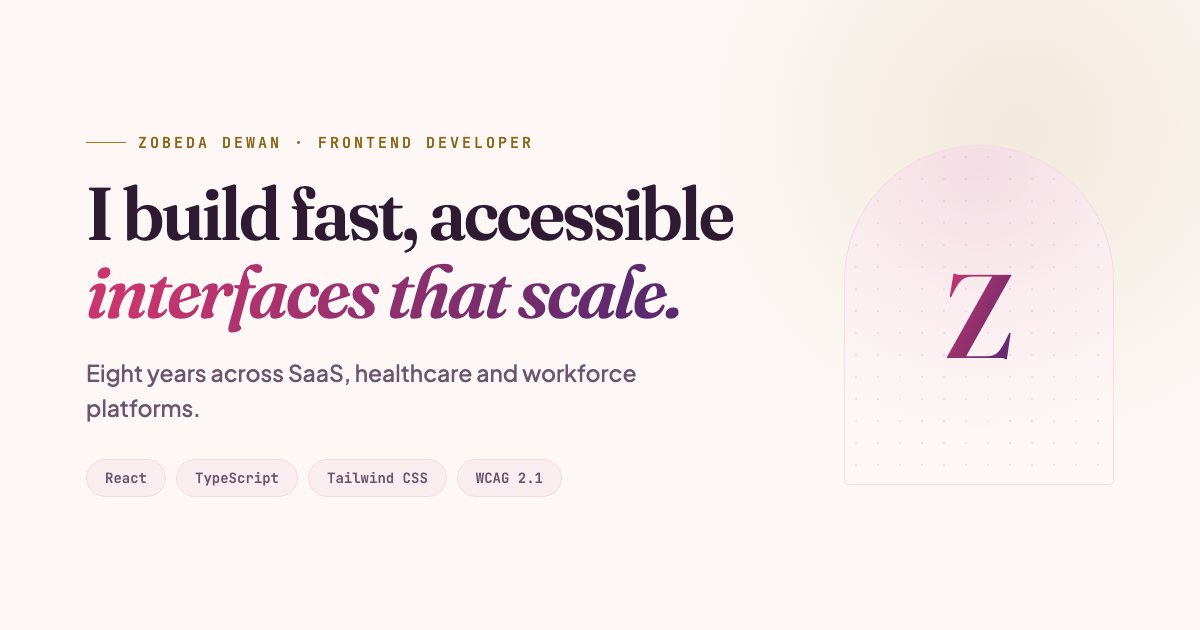
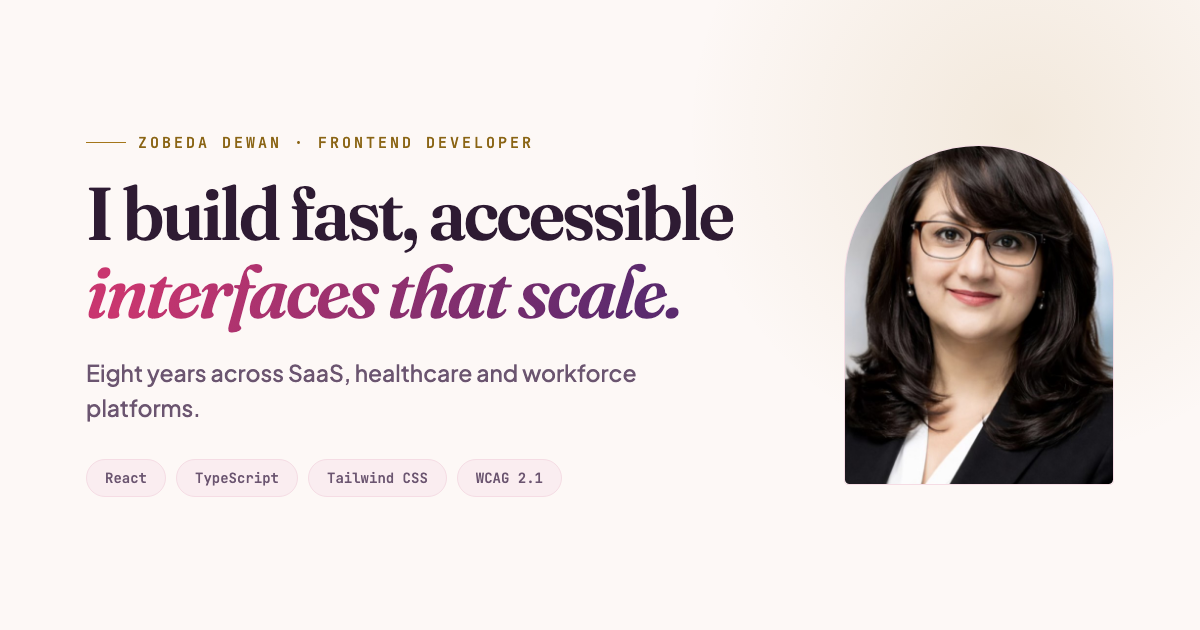
Add portrait photo to hero and link preview
Cropped from the supplied circle-cropped screenshot: solved the circle
geometry (centre 375,408.5 r≈449) and took the largest 4:5 rectangle that
fits entirely inside it, so none of the dark surround survives.

The arch is capped at 26rem so the 552px source is never scaled far past
its intrinsic size. Intrinsic width/height are set on the img to reserve
layout space.

og-image.png rebuilt with the photo in place of the monogram.

Changed region(s): [[0.6783, 0.2111, 0.925, 0.7841]]

diff --git a/src/components/sections/Hero.tsx b/src/components/sections/Hero.tsx
@@ -84,14 +84,17 @@ export function Hero() {
             </Reveal>
           </div>
 
-          <Reveal delay={0.12} className="relative mx-auto w-full max-w-sm lg:max-w-none">
+          {/* Capped at 26rem so the 552px-wide source is never scaled up
+              much past its intrinsic size. */}
+          <Reveal delay={0.12} className="relative mx-auto w-full max-w-sm lg:mx-0 lg:ml-auto lg:max-w-[26rem]">
             <ArchFrame
+              src="/zobeda.jpg"
+              alt="Zobeda Dewan, frontend developer"
+              width={552}
+              height={690}
               monogram="Z"
               priority
               className="aspect-[4/5] w-full shadow-xl shadow-plum/10"
-              /* When the photo arrives, add:
-                 src="/zobeda.webp"
-                 alt="Zobeda Dewan, frontend developer" */
             />
 
             <p className="absolute -bottom-5 left-1/2 -translate-x-1/2 rounded-full border border-petal bg-cream/95 px-5 py-2.5 font-mono text-[0.68rem] tracking-[0.1em] whitespace-nowrap text-ink-soft shadow-lg shadow-plum/5 backdrop-blur-sm">

diff --git a/src/components/ui/ArchFrame.tsx b/src/components/ui/ArchFrame.tsx
@@ -12,6 +12,8 @@ import { cn } from '@/lib/cn'
 export function ArchFrame({
   src,
   alt,
+  width,
+  height,
   monogram,
   className,
   priority = false,
@@ -19,6 +21,10 @@ export function ArchFrame({
   src?: string
   /** Required whenever `src` is set. Ignored by the placeholder, which is decorative. */
   alt?: string
+  /** Intrinsic pixel size. Set alongside `src` so the frame reserves its
+      space before the image loads and nothing shifts. */
+  width?: number
+  height?: number
   monogram: string
   className?: string
   /** Set on the hero image so it is not lazy-loaded. */
@@ -37,6 +43,8 @@ export function ArchFrame({
         <img
           src={src}
           alt={alt ?? ''}
+          width={width}
+          height={height}
           loading={priority ? 'eager' : 'lazy'}
           decoding="async"
           fetchPriority={priority ? 'high' : 'auto'}
